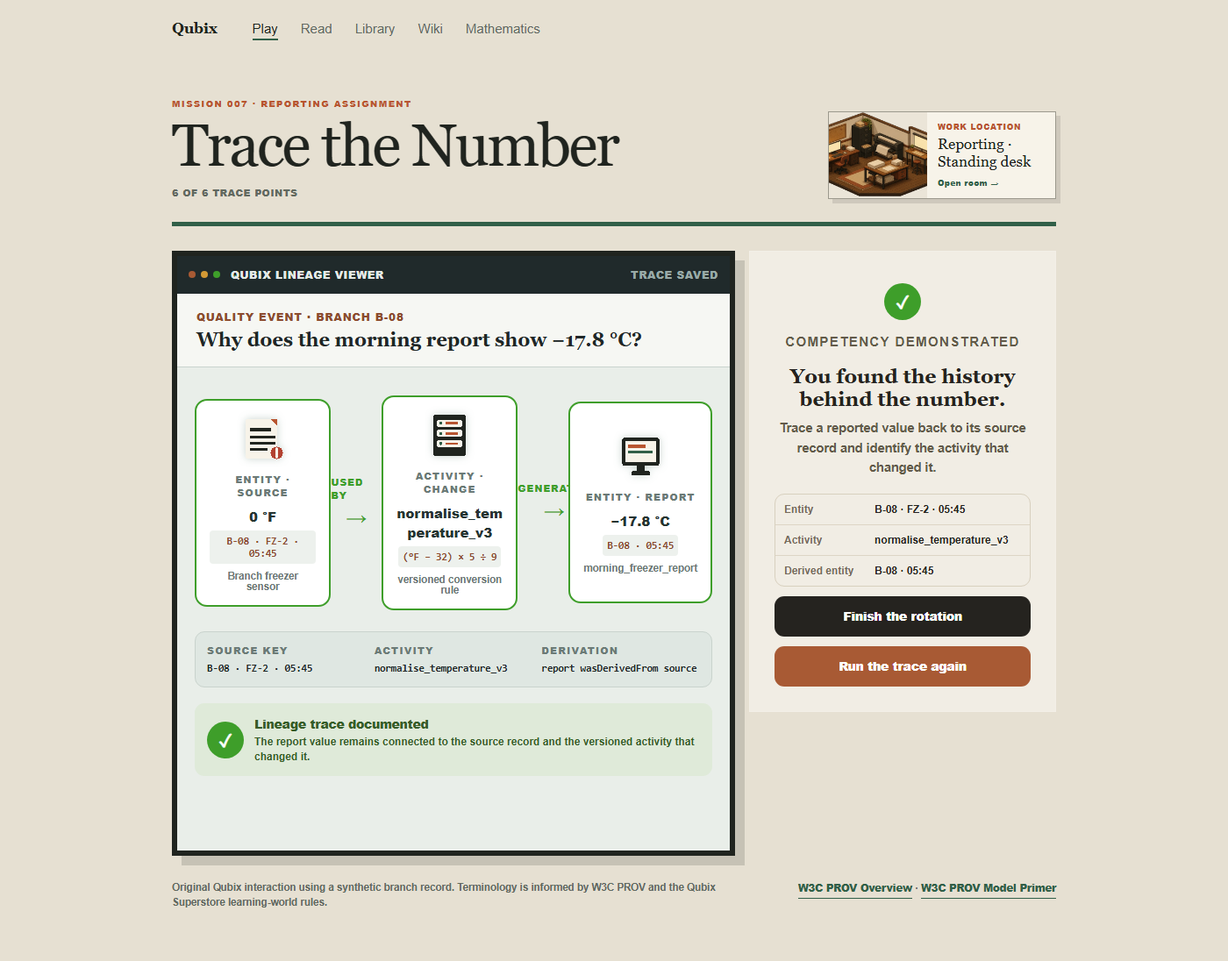
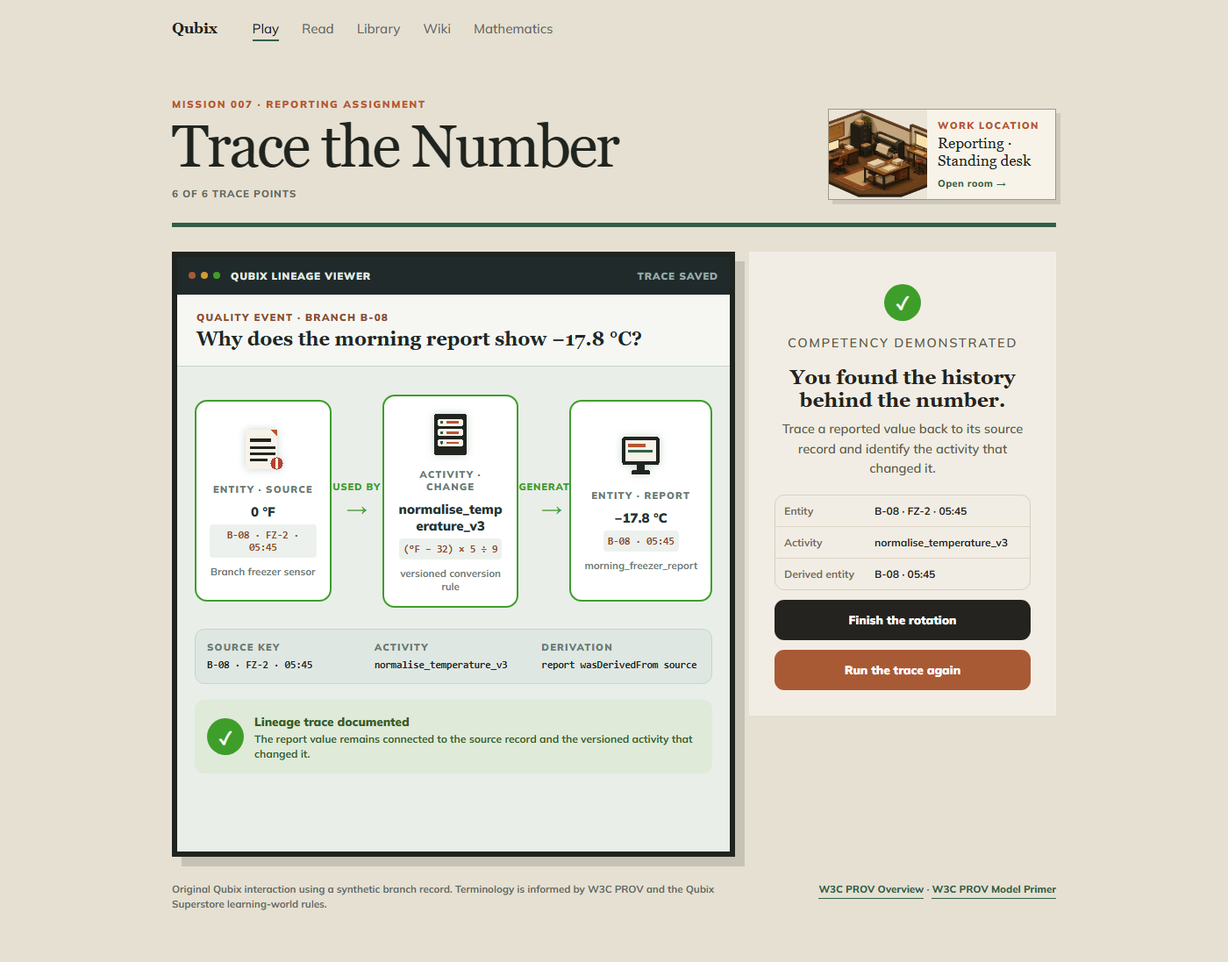
Raise every learner-facing type size to a readable floor
A sweep of every route at desktop and phone width found the site clean
on the things that usually break: no javascript errors, no missing
files, no broken images, no blank pages, no sideways scrolling anywhere.
One fault ran through almost all of it. Ninety-two routes carried text
below 11px.

The home page had been retuned by hand and nothing else had. An 8.5px
"WORK LOCATION" sat on every mission masthead, case counters were 10px,
the play hub alone had eighty-two instances, and three of the newer
missions carried 7.5px licence badges.

Forty-six declarations lifted across ten files. Only sizes already below
11px moved, so nothing that was working got rescaled. Authoring surfaces
are left alone: their density is deliberate and no learner opens them.

check-type reads the source rather than a rendered page, so it runs in
the build with everything else, and refuses any learner-facing font
declaration under 11px. It checks 888 of them.

Two scripts kept: sweep-routes walks every route and reports what is
actually broken, which is how this was found, and floor-type applies the
lift. The first version of floor-type listed the sizes it knew about and
missed the 7.5px badges entirely; it reads the number now.

diff --git a/src/views/GameHub.svelte b/src/views/GameHub.svelte
@@ -134,13 +134,13 @@
   .standing{padding:24px;border-top:3px solid var(--accent);background:var(--paper)}.rank-line{display:flex;justify-content:space-between;align-items:baseline;gap:14px}.rank-line strong{font:500 23px Georgia,serif}.rank-line span{font:500 34px Georgia,serif}.bar{height:5px;margin-top:22px;background:#cec8ba;overflow:hidden}.bar span{display:block;height:100%;background:var(--accent);transition:width .4s ease}.meter-row{display:flex;justify-content:space-between;gap:12px;margin-top:8px;color:var(--soft);font:700 11px var(--qx-font)}.standing small{display:block;margin-top:12px;color:var(--soft);font:600 11px var(--qx-font)}
   .locked-notice{margin-bottom:20px;color:#7a3524;font:700 14px/1.5 var(--qx-font)}
   .next-card{display:grid;grid-template-columns:64px minmax(0,1fr) auto;gap:28px;align-items:center;width:calc(100% - clamp(32px,10vw,112px));max-width:1008px!important;box-sizing:border-box;margin-bottom:72px!important;padding:30px!important;border:6px solid var(--ink);background:var(--paper);box-shadow:12px 12px 0 rgba(32,36,31,.16)}.mission-number{color:var(--signal);font:500 28px Georgia,serif}.next-copy h2{margin:0;font:500 31px Georgia,serif}.next-copy>p:not(.eyebrow){margin:7px 0;color:var(--soft);font:500 14px/1.5 var(--qx-font)}
-  .pairing{display:flex;margin-top:20px}.pairing span{max-width:230px;padding:0 22px;border-left:1px solid var(--rule);color:var(--soft);font:500 11px/1.45 var(--qx-font)}.pairing span:first-child{padding-left:0;border:0}.pairing b{display:block;margin-bottom:6px;color:var(--signal);font:900 9px var(--qx-font);letter-spacing:.12em}.next-actions{display:grid;gap:11px;text-align:center}.next-actions a{color:var(--ink);font:800 12px var(--qx-font);text-decoration:none}.next-actions .primary{padding:16px 20px;background:var(--signal);color:#fff}.next-actions a:focus-visible{outline:3px solid var(--accent);outline-offset:3px}
-  .floor,.route{padding-bottom:76px}.section-heading{display:flex;justify-content:space-between;align-items:end;gap:24px;margin-bottom:28px}.section-heading h2,.ranks h2{max-width:720px;margin:0;font:500 clamp(30px,4vw,47px)/1.08 Georgia,serif;letter-spacing:-.02em}.section-heading>span{color:var(--soft);font:800 10px/1.5 var(--qx-font);letter-spacing:.08em;text-align:right}
+  .pairing{display:flex;margin-top:20px}.pairing span{max-width:230px;padding:0 22px;border-left:1px solid var(--rule);color:var(--soft);font:500 11px/1.45 var(--qx-font)}.pairing span:first-child{padding-left:0;border:0}.pairing b{display:block;margin-bottom:6px;color:var(--signal);font:900 11px var(--qx-font);letter-spacing:.12em}.next-actions{display:grid;gap:11px;text-align:center}.next-actions a{color:var(--ink);font:800 12px var(--qx-font);text-decoration:none}.next-actions .primary{padding:16px 20px;background:var(--signal);color:#fff}.next-actions a:focus-visible{outline:3px solid var(--accent);outline-offset:3px}
+  .floor,.route{padding-bottom:76px}.section-heading{display:flex;justify-content:space-between;align-items:end;gap:24px;margin-bottom:28px}.section-heading h2,.ranks h2{max-width:720px;margin:0;font:500 clamp(30px,4vw,47px)/1.08 Georgia,serif;letter-spacing:-.02em}.section-heading>span{color:var(--soft);font:800 11.5px/1.5 var(--qx-font);letter-spacing:.08em;text-align:right}
   .floor-map{position:relative;display:grid;grid-template-columns:1fr 1.15fr 1.35fr;grid-template-areas:'goods stock office' 'checkout aisles office' 'checkout aisles board';gap:16px;padding:24px;border:6px solid var(--ink);background:#d7dbcf;box-shadow:12px 12px 0 rgba(32,36,31,.16)}
   .room{position:relative;min-height:170px;display:flex;flex-direction:column;padding:18px;border:1px solid #9c998d;background:#e8e2d5;color:var(--ink);text-decoration:none;overflow:hidden;isolation:isolate}.goods-in{grid-area:goods}.stock-room{grid-area:stock}.data-office{grid-area:office}.checkout{grid-area:checkout}.aisles{grid-area:aisles}.board-room{grid-area:board}.room::before{content:'';position:absolute;inset:0;z-index:-2;background:linear-gradient(145deg,rgba(49,95,72,.08),transparent 58%),repeating-linear-gradient(90deg,transparent 0 36px,rgba(32,36,31,.025) 36px 37px)}.room::after{content:'';position:absolute;inset:0;z-index:-1;background:linear-gradient(to top,rgba(232,226,213,.98),rgba(232,226,213,.12) 72%)}.room:hover{border-color:var(--signal)}.room:focus-visible{outline:4px solid var(--signal);outline-offset:-4px}.room.current{border:3px solid var(--signal)}.room.complete{border-color:var(--accent)}
-  .room-top{display:flex;justify-content:space-between;gap:12px;text-transform:uppercase}.room-top b{font:800 12px var(--qx-font);letter-spacing:.13em}.room-top em{color:var(--accent);font:800 10px var(--qx-font);font-style:normal}.image-slot{margin:auto;color:#857f72;font:800 9px var(--qx-font);letter-spacing:.13em}.room small{color:var(--soft);font:600 10px/1.35 var(--qx-font)}.room-state{margin-top:8px;color:var(--signal);font:900 9px var(--qx-font);letter-spacing:.09em;text-transform:uppercase}.you-are-here{position:absolute;left:18%;top:56%;padding:10px 13px;background:var(--signal);color:#fff;font:900 9px var(--qx-font);letter-spacing:.08em}.image-note{margin:18px 0 0;color:var(--soft);font:500 12px/1.5 var(--qx-font)}
-  ol.missions{margin:0;padding:0;border-top:3px solid var(--accent);list-style:none}.missions li{display:grid;grid-template-columns:42px minmax(0,1fr) auto auto;align-items:center;gap:18px;padding:19px 20px;border-bottom:1px solid var(--rule);background:rgba(247,243,233,.65)}.missions li:first-child{border-left:4px solid var(--signal)}.missions li.done{background:rgba(49,95,72,.07)}.missions li.locked{opacity:.55}.num{color:var(--accent);font:500 14px Georgia,serif}.body b{display:block;font:500 17px Georgia,serif}.body span{display:block;margin-top:3px;color:var(--soft);font:500 12px/1.4 var(--qx-font)}.xp{color:var(--soft);font:800 10px var(--qx-font)}.actions{display:flex;align-items:center;gap:8px}.actions a,.lock{min-width:58px;padding:9px 10px;color:var(--ink);font:900 9px var(--qx-font);letter-spacing:.08em;text-align:center;text-decoration:none;text-transform:uppercase}.actions .play{background:var(--signal);color:#fff}.actions .read{color:var(--accent)}.lock{color:var(--soft)}.actions a:focus-visible{outline:3px solid var(--accent);outline-offset:2px}
-  .ranks{padding-bottom:62px}.ranks ul{display:grid;grid-template-columns:repeat(auto-fit,minmax(220px,1fr));gap:0;margin:26px 0 0;padding:0;border-top:1px solid var(--rule);border-left:1px solid var(--rule);list-style:none}.ranks li{display:flex;justify-content:space-between;gap:10px;padding:15px;border-right:1px solid var(--rule);border-bottom:1px solid var(--rule);opacity:.48}.ranks li.reached{background:var(--paper);opacity:1}.ranks b{font:600 12px var(--qx-font)}.ranks span{color:var(--soft);font:700 10px var(--qx-font)}
+  .room-top{display:flex;justify-content:space-between;gap:12px;text-transform:uppercase}.room-top b{font:800 12px var(--qx-font);letter-spacing:.13em}.room-top em{color:var(--accent);font:800 11.5px var(--qx-font);font-style:normal}.image-slot{margin:auto;color:#857f72;font:800 11px var(--qx-font);letter-spacing:.13em}.room small{color:var(--soft);font:600 11.5px/1.35 var(--qx-font)}.room-state{margin-top:8px;color:var(--signal);font:900 11px var(--qx-font);letter-spacing:.09em;text-transform:uppercase}.you-are-here{position:absolute;left:18%;top:56%;padding:10px 13px;background:var(--signal);color:#fff;font:900 11px var(--qx-font);letter-spacing:.08em}.image-note{margin:18px 0 0;color:var(--soft);font:500 12px/1.5 var(--qx-font)}
+  ol.missions{margin:0;padding:0;border-top:3px solid var(--accent);list-style:none}.missions li{display:grid;grid-template-columns:42px minmax(0,1fr) auto auto;align-items:center;gap:18px;padding:19px 20px;border-bottom:1px solid var(--rule);background:rgba(247,243,233,.65)}.missions li:first-child{border-left:4px solid var(--signal)}.missions li.done{background:rgba(49,95,72,.07)}.missions li.locked{opacity:.55}.num{color:var(--accent);font:500 14px Georgia,serif}.body b{display:block;font:500 17px Georgia,serif}.body span{display:block;margin-top:3px;color:var(--soft);font:500 12px/1.4 var(--qx-font)}.xp{color:var(--soft);font:800 11.5px var(--qx-font)}.actions{display:flex;align-items:center;gap:8px}.actions a,.lock{min-width:58px;padding:9px 10px;color:var(--ink);font:900 11px var(--qx-font);letter-spacing:.08em;text-align:center;text-decoration:none;text-transform:uppercase}.actions .play{background:var(--signal);color:#fff}.actions .read{color:var(--accent)}.lock{color:var(--soft)}.actions a:focus-visible{outline:3px solid var(--accent);outline-offset:2px}
+  .ranks{padding-bottom:62px}.ranks ul{display:grid;grid-template-columns:repeat(auto-fit,minmax(220px,1fr));gap:0;margin:26px 0 0;padding:0;border-top:1px solid var(--rule);border-left:1px solid var(--rule);list-style:none}.ranks li{display:flex;justify-content:space-between;gap:10px;padding:15px;border-right:1px solid var(--rule);border-bottom:1px solid var(--rule);opacity:.48}.ranks li.reached{background:var(--paper);opacity:1}.ranks b{font:600 12px var(--qx-font)}.ranks span{color:var(--soft);font:700 11.5px var(--qx-font)}
   .progress-foot{display:flex;justify-content:space-between;align-items:center;gap:16px;flex-wrap:wrap;padding-top:18px;border-top:1px solid var(--rule)}.progress-foot p{margin:0;color:var(--soft);font:500 12px/1.5 var(--qx-font)}.confirm{display:flex;align-items:center;gap:9px;color:#7a3524;font:700 12px var(--qx-font);flex-wrap:wrap}button{min-height:34px;padding:0 14px;border:0;background:#9b382c;color:#fff;cursor:pointer;font:900 11px var(--qx-font)}button.ghost{border:1px solid var(--rule);background:transparent;color:var(--soft)}button:disabled{opacity:.4;cursor:default}button:focus-visible{outline:3px solid var(--accent);outline-offset:2px}.sr-only{position:absolute;width:1px;height:1px;padding:0;margin:-1px;overflow:hidden;clip:rect(0,0,0,0);white-space:nowrap;border:0}
   @media(max-width:780px){.hero{grid-template-columns:1fr;padding-top:40px}.next-card{grid-template-columns:42px minmax(0,1fr)}.next-actions{grid-column:2;justify-items:start}.floor-map{grid-template-columns:1fr 1fr;grid-template-areas:'checkout aisles' 'goods stock' 'office office' 'board board';padding:14px}.room{min-height:145px}.data-office,.board-room{min-height:160px}.you-are-here{left:42%;top:23%}.missions li{grid-template-columns:34px minmax(0,1fr);gap:10px}.xp,.actions{grid-column:2}.actions{justify-self:start}.section-heading{align-items:flex-start;flex-direction:column}.section-heading>span{text-align:left}}
   @media(max-width:460px){.hero h1{font-size:43px}.next-card{margin-inline:16px!important;padding:21px!important;border-width:5px;box-shadow:8px 8px 0 rgba(32,36,31,.16)}.next-card .mission-number{display:none}.next-card,.next-actions{grid-template-columns:1fr;grid-column:1}.pairing{display:grid;gap:12px}.pairing span{padding:0;border:0}.floor-map{grid-template-columns:1fr;grid-template-areas:'checkout' 'aisles' 'goods' 'stock' 'office' 'board';box-shadow:8px 8px 0 rgba(32,36,31,.16)}.you-are-here{top:19%;left:auto;right:4px}.room{min-height:160px}}

diff --git a/src/lib/components/game/EvidenceWorkflowMission.svelte b/src/lib/components/game/EvidenceWorkflowMission.svelte
@@ -146,20 +146,20 @@
   main{display:grid;grid-template-columns:minmax(0,1.14fr) minmax(330px,.86fr);gap:24px;align-items:start}
   .case-file,.decision-card{background:#f7f3e9;color:#20241f}.case-file{min-height:520px;overflow:hidden}.decision-card{padding:24px;border:1px solid #9c998d;box-shadow:5px 5px 0 rgba(32,36,31,.12)}
   .file-head{padding:22px 24px 18px;display:flex;justify-content:space-between;align-items:start;gap:18px;border-bottom:2px solid #20241f}
-  .eyebrow{margin:0 0 6px;color:#b85530;font:900 9px var(--qx-font);letter-spacing:.14em}.file-head h2,.question h2,.completion h2{margin:0;font:400 27px/1.08 Georgia,serif;text-wrap:balance}
-  .file-head>span{display:grid;place-items:center;min-width:50px;height:34px;background:#20241f;color:#fff;font:900 10px var(--qx-font)}
+  .eyebrow{margin:0 0 6px;color:#b85530;font:900 11px var(--qx-font);letter-spacing:.14em}.file-head h2,.question h2,.completion h2{margin:0;font:400 27px/1.08 Georgia,serif;text-wrap:balance}
+  .file-head>span{display:grid;place-items:center;min-width:50px;height:34px;background:#20241f;color:#fff;font:900 11.5px var(--qx-font)}
   .brief{margin:0;padding:20px 24px;color:#51584f;font:650 14px/1.6 var(--qx-font)}
-  .evidence-table{margin:0 24px;border:2px solid #20241f}.evidence-table>div{display:grid;grid-template-columns:minmax(125px,34%) 1fr;border-bottom:1px solid #9c998d}.evidence-table>div:last-child{border-bottom:0}.evidence-table b,.evidence-table span{padding:12px 13px}.evidence-table b{background:#e1dacd;font:900 10px/1.4 var(--qx-font);letter-spacing:.04em}.evidence-table span{font:700 12.5px/1.45 ui-monospace,"SF Mono",Consolas,monospace;overflow-wrap:anywhere}
-  .case-rule{margin:22px 24px 26px;padding:14px 16px;display:grid;gap:5px;border-left:5px solid #315f48;background:#e3e9df}.case-rule b{color:#315f48;font:900 9px var(--qx-font);letter-spacing:.12em}.case-rule span{font:650 12.5px/1.5 var(--qx-font)}
-  .decision-card nav{display:flex;gap:1px;margin-bottom:22px;background:#c8c1b1}.decision-card nav span{flex:1;min-width:0;padding:8px 7px;display:flex;align-items:center;gap:6px;background:#e7e1d5;color:#6f756b;font:850 9px var(--qx-font);letter-spacing:.04em}.decision-card nav span b{display:grid;place-items:center;width:20px;height:20px;background:#c8c1b1;color:#20241f}.decision-card nav span.past{background:#dce5d7;color:#315f48}.decision-card nav span.on{background:#20241f;color:#fff}.decision-card nav span.on b{background:#b85530;color:#fff}
+  .evidence-table{margin:0 24px;border:2px solid #20241f}.evidence-table>div{display:grid;grid-template-columns:minmax(125px,34%) 1fr;border-bottom:1px solid #9c998d}.evidence-table>div:last-child{border-bottom:0}.evidence-table b,.evidence-table span{padding:12px 13px}.evidence-table b{background:#e1dacd;font:900 11.5px/1.4 var(--qx-font);letter-spacing:.04em}.evidence-table span{font:700 12.5px/1.45 ui-monospace,"SF Mono",Consolas,monospace;overflow-wrap:anywhere}
+  .case-rule{margin:22px 24px 26px;padding:14px 16px;display:grid;gap:5px;border-left:5px solid #315f48;background:#e3e9df}.case-rule b{color:#315f48;font:900 11px var(--qx-font);letter-spacing:.12em}.case-rule span{font:650 12.5px/1.5 var(--qx-font)}
+  .decision-card nav{display:flex;gap:1px;margin-bottom:22px;background:#c8c1b1}.decision-card nav span{flex:1;min-width:0;padding:8px 7px;display:flex;align-items:center;gap:6px;background:#e7e1d5;color:#6f756b;font:850 11px var(--qx-font);letter-spacing:.04em}.decision-card nav span b{display:grid;place-items:center;width:20px;height:20px;background:#c8c1b1;color:#20241f}.decision-card nav span.past{background:#dce5d7;color:#315f48}.decision-card nav span.on{background:#20241f;color:#fff}.decision-card nav span.on b{background:#b85530;color:#fff}
   .question{padding-bottom:18px;border-bottom:2px solid #20241f}.question h2{font-size:24px}
   .options{display:grid;gap:9px;margin-top:18px}.options button{padding:13px 14px;display:grid;gap:4px;border:1px solid #9c998d;background:#fff;color:#20241f;text-align:left;cursor:pointer}.options button:hover,.options button.selected{border:2px solid #315f48}.options button.right{border:2px solid #315f48;background:#e3e9df}.options button.wrong{border:2px solid #b85530;background:#f4e0d7}.options button:disabled{cursor:default}.options button b{font:850 13px/1.35 var(--qx-font)}.options button span{color:#686d64;font:650 11.5px/1.45 var(--qx-font)}
   .feedback{margin-top:12px;padding:12px 14px;display:grid;gap:4px;border-left:5px solid #b85530;background:#f4e0d7;color:#813d2b;font:650 12px/1.5 var(--qx-font)}.feedback.success{border-color:#315f48;background:#e3e9df;color:#315f48}.feedback b{font-weight:900}
   .continue,.completion>a,.completion>button{width:100%;min-height:45px;margin-top:12px;border:0;background:#315f48;color:#fff;font:900 11px var(--qx-font);letter-spacing:.06em;text-transform:uppercase;cursor:pointer}.continue{text-align:center}.completion>a{display:grid;place-items:center;box-sizing:border-box;background:#20241f;text-decoration:none}.completion>button{background:transparent;color:#315f48;border:1px solid #315f48}
   .completion{padding:42px clamp(22px,5vw,52px);text-align:center}.stamp{display:inline-block;margin-bottom:22px;padding:10px 14px;border:4px double #315f48;color:#315f48;font:900 12px var(--qx-font);letter-spacing:.14em;transform:rotate(-2deg)}.completion>p:not(.eyebrow){max-width:54ch;margin:12px auto;color:#555b53;font:650 13.5px/1.55 var(--qx-font)}.completion ol{margin:24px 0 0;padding:0;list-style:none;border:2px solid #20241f;text-align:left}.completion li{padding:12px 14px;display:grid;grid-template-columns:1fr 1fr;gap:12px;border-bottom:1px solid #9c998d}.completion li:last-child{border-bottom:0}.completion li span{font:800 12px var(--qx-font)}.completion li b{color:#315f48;font:800 11px/1.4 var(--qx-font)}
-  footer{display:flex;justify-content:space-between;gap:16px;flex-wrap:wrap;font:650 10.5px/1.5 var(--qx-font)}.source-links{display:flex;align-items:center;gap:5px;flex-wrap:wrap}.source-links a{display:inline-flex;align-items:center;gap:5px}.source-links small{padding:2px 4px;border:1px solid currentColor;font:850 7.5px var(--qx-font);text-decoration:none}
+  footer{display:flex;justify-content:space-between;gap:16px;flex-wrap:wrap;font:650 11.5px/1.5 var(--qx-font)}.source-links{display:flex;align-items:center;gap:5px;flex-wrap:wrap}.source-links a{display:inline-flex;align-items:center;gap:5px}.source-links small{padding:2px 4px;border:1px solid currentColor;font:850 11px var(--qx-font);text-decoration:none}
   button:focus-visible,a:focus-visible{outline:3px solid #b85530;outline-offset:3px}
   @media(max-width:900px){main{grid-template-columns:1fr}.case-file{min-height:0}}
-  @media(max-width:560px){.decision-card{padding:17px}.file-head,.brief{padding-left:17px;padding-right:17px}.evidence-table,.case-rule{margin-left:17px;margin-right:17px}.evidence-table>div{grid-template-columns:1fr}.evidence-table b{padding-bottom:5px}.evidence-table span{padding-top:5px}.completion li{grid-template-columns:1fr}.decision-card nav span{justify-content:center}.decision-card nav span:not(.on) {font-size:0}.decision-card nav span b{font-size:9px}}
+  @media(max-width:560px){.decision-card{padding:17px}.file-head,.brief{padding-left:17px;padding-right:17px}.evidence-table,.case-rule{margin-left:17px;margin-right:17px}.evidence-table>div{grid-template-columns:1fr}.evidence-table b{padding-bottom:5px}.evidence-table span{padding-top:5px}.completion li{grid-template-columns:1fr}.decision-card nav span{justify-content:center}.decision-card nav span:not(.on) {font-size:0}.decision-card nav span b{font-size:11px}}
 </style>
 

diff --git a/src/views/MissingDataMission.svelte b/src/views/MissingDataMission.svelte
@@ -274,12 +274,12 @@
   .intro-copy{padding:clamp(28px,4vw,52px);display:flex;flex-direction:column;justify-content:center;border-left:1px solid #d4cbb9;background:#fbf8f1}
   .intro-copy h3{margin:4px 0 12px;font:700 clamp(27px,3vw,38px)/1.08 Georgia,serif;letter-spacing:-.02em}.intro-copy>p:not(.eyebrow){margin:0;color:#625a49;font:650 15px/1.65 var(--qx-font)}
   .intro-copy button{min-height:48px;margin-top:24px;border:0;border-radius:11px;background:#a85a34;color:#fff;font:900 14px var(--qx-font);cursor:pointer}.intro-copy button:hover{background:#25231f}
-  .mobile-monitor{min-height:280px;margin:18px;padding:24px;display:grid;place-items:center;align-content:center;gap:12px;border:10px solid #25231f;border-bottom-width:30px;border-radius:14px;background:#bfe8d6;color:#20382e;cursor:pointer}.mobile-monitor .screen-icon{font:900 42px/1 var(--qx-font);letter-spacing:.04em}.mobile-monitor .screen-icon small{font-size:10px}.mobile-monitor>b{font:900 17px var(--qx-font)}.mobile-monitor>small{font:700 13px var(--qx-font)}
+  .mobile-monitor{min-height:280px;margin:18px;padding:24px;display:grid;place-items:center;align-content:center;gap:12px;border:10px solid #25231f;border-bottom-width:30px;border-radius:14px;background:#bfe8d6;color:#20382e;cursor:pointer}.mobile-monitor .screen-icon{font:900 42px/1 var(--qx-font);letter-spacing:.04em}.mobile-monitor .screen-icon small{font-size:11.5px}.mobile-monitor>b{font:900 17px var(--qx-font)}.mobile-monitor>small{font:700 13px var(--qx-font)}
   .workstation-screen{margin:0 14px 14px;padding:12px;border:8px solid #25231f;border-radius:12px;background:#201c17;box-shadow:inset 0 0 0 1px #47665a,0 18px 50px rgba(0,0,0,.25);color:#e9f0e9}
   .screen-bar{min-height:42px;padding:0 12px;display:grid;grid-template-columns:1fr auto 1fr;align-items:center;gap:12px;border-bottom:1px solid #47665a;color:#a9bdb3;font:850 11px var(--qx-font);letter-spacing:.08em}.screen-bar>div{display:flex;gap:6px}.screen-bar i{width:8px;height:8px;border-radius:50%;background:#a85a34}.screen-bar i:nth-child(2){background:#e2a42d}.screen-bar i:nth-child(3){background:#63b13b}.screen-bar b{color:#e9f0e9}.screen-bar>span{text-align:right}
   .screen-layout{display:grid;grid-template-columns:minmax(330px,.84fr) minmax(0,1.16fr);gap:1px;background:#47665a}
   .case-pane,.workstation-screen .decision-card{min-width:0;border:0;border-radius:0;background:#edf1ed;color:#25231f}
-  .case-pane{padding:clamp(18px,2.6vw,30px)}.pane-label{margin:0 0 10px;color:#55756f;font:900 11px var(--qx-font);letter-spacing:.12em}.data-table-wrap.record-strip{display:block;max-width:100%;overflow-x:auto;border:1px solid #c7d1ca;border-radius:11px;background:#fff}.data-table-wrap table{width:100%;border-collapse:collapse;font:750 12px var(--qx-font);white-space:nowrap}.data-table-wrap caption{padding:10px 12px;border-bottom:1px solid #d5ddd7;background:#f7f9f6;color:#375a4e;font:900 11px var(--qx-font);letter-spacing:.06em;text-align:left}.data-table-wrap th,.data-table-wrap td{padding:11px 12px;border-right:1px solid #d5ddd7;text-align:left}.data-table-wrap th:last-child,.data-table-wrap td:last-child{border-right:0}.data-table-wrap th{color:#61706a;font-size:10.5px;letter-spacing:.04em}.data-table-wrap td{border-top:1px solid #d5ddd7;color:#25231f}.data-table-wrap .flagged{background:#f8e4df;color:#a02d1d;font-weight:900}.case-pane .evidence{margin:16px 0 0;background:#dfe7e2;border-color:#c1cec5}.case-pane .evidence small{display:block;margin-bottom:7px;color:#55756f;font:900 10.5px var(--qx-font);letter-spacing:.1em}
+  .case-pane{padding:clamp(18px,2.6vw,30px)}.pane-label{margin:0 0 10px;color:#55756f;font:900 11px var(--qx-font);letter-spacing:.12em}.data-table-wrap.record-strip{display:block;max-width:100%;overflow-x:auto;border:1px solid #c7d1ca;border-radius:11px;background:#fff}.data-table-wrap table{width:100%;border-collapse:collapse;font:750 12px var(--qx-font);white-space:nowrap}.data-table-wrap caption{padding:10px 12px;border-bottom:1px solid #d5ddd7;background:#f7f9f6;color:#375a4e;font:900 11px var(--qx-font);letter-spacing:.06em;text-align:left}.data-table-wrap th,.data-table-wrap td{padding:11px 12px;border-right:1px solid #d5ddd7;text-align:left}.data-table-wrap th:last-child,.data-table-wrap td:last-child{border-right:0}.data-table-wrap th{color:#61706a;font-size:11.5px;letter-spacing:.04em}.data-table-wrap td{border-top:1px solid #d5ddd7;color:#25231f}.data-table-wrap .flagged{background:#f8e4df;color:#a02d1d;font-weight:900}.case-pane .evidence{margin:16px 0 0;background:#dfe7e2;border-color:#c1cec5}.case-pane .evidence small{display:block;margin-bottom:7px;color:#55756f;font:900 11.5px var(--qx-font);letter-spacing:.1em}
   .workstation-screen .decision-card{padding:clamp(18px,2.6vw,30px);overflow:visible}.workstation-screen .theory{border-color:#c7d1ca}.workstation-screen .options{grid-template-columns:repeat(2,minmax(0,1fr))}.workstation-screen .options button{min-height:54px}.workstation-screen .options button:last-child:nth-child(odd){grid-column:1/-1}.completion-panel{max-width:760px;margin:0 auto}.completion-panel .completion{padding:18px}
   @media(max-width:940px){main{grid-template-columns:1fr}.mission-intro,.screen-layout{grid-template-columns:1fr}.intro-copy{border-top:1px solid #d4cbb9;border-left:0}.viewport{min-height:500px}.decision-card{min-height:0}footer{flex-direction:column}}
   @media(max-width:600px){.mission-shell{padding:13px 10px 25px}header{align-items:flex-start}.identity h1{font-size:20px}.role{width:42px;height:42px}nav{flex-direction:column;align-items:flex-end;gap:6px}.viewport{min-height:360px}.intro-copy{padding:24px 18px}.mobile-monitor{margin:10px}.workstation-screen{margin:0 6px 8px;padding:5px;border-width:5px}.screen-bar{grid-template-columns:1fr auto;padding:8px}.screen-bar>b{display:none}.screen-layout{display:block}.record-strip{grid-template-columns:1fr}.record-strip div{border-right:0;border-bottom:1px solid #d8d0be}.record-strip div:last-child{border-bottom:0}.decision-card{padding:16px}.workstation-screen .options{grid-template-columns:1fr}.workstation-screen .options button:last-child:nth-child(odd){grid-column:auto}}

diff --git a/src/views/CheckoutMission.svelte b/src/views/CheckoutMission.svelte
@@ -328,14 +328,14 @@
   .nav-wrap,.mission-hero,main{width:min(100%,1120px);margin-inline:auto;padding-inline:clamp(16px,5vw,56px)}
   .mission-hero{display:flex;align-items:end;justify-content:space-between;gap:28px;margin-bottom:30px;padding-top:48px}
   .mission-hero h1{margin:0;color:#20241f;font:400 clamp(42px,7vw,70px)/.98 Georgia,serif;letter-spacing:-.035em}
-  .mission-meta{min-width:190px;color:#62695f;font:800 10px var(--qx-font);letter-spacing:.08em;text-align:right}
+  .mission-meta{min-width:190px;color:#62695f;font:800 11.5px var(--qx-font);letter-spacing:.08em;text-align:right}
   .progress{width:100%;max-width:none;height:5px;margin:10px 0 0;border-radius:0;background:#c8c1b1}
   .progress span{background:#315f48}
   main{display:grid;grid-template-columns:minmax(0,1.25fr) minmax(250px,.75fr);gap:24px;align-items:start;box-sizing:border-box}
   .stage-card{border:6px solid #20241f;border-radius:0;background:#f7f3e9;box-shadow:11px 11px 0 rgba(32,36,31,.16)}
   .brief{min-height:94px;padding:19px 23px;border-bottom:1px solid #c8c1b1}
   .brief h2,.card-title h2,.classify-card h2{font-weight:400}.brief>strong{color:#b85530}
-  .eyebrow{color:#b85530;font-size:10px;letter-spacing:.13em}
+  .eyebrow{color:#b85530;font-size:11.5px;letter-spacing:.13em}
   .viewport{min-height:clamp(360px,52vh,570px);border-color:#c8c1b1;background:#e8e2d5}
   .checkout-controls{padding:18px 22px}.quantity span{color:#62695f}.quantity button,button,select{border-radius:0;border-color:#c8c1b1;background:#f7f3e9}
   .scan{background:#b85530;border-color:#b85530}.feedback{border-color:#c8c1b1;background:#f0ebdf;color:#62695f}
@@ -344,7 +344,7 @@
   .decision-card h2{margin:0 0 9px;font:400 25px/1.1 Georgia,serif}.decision-card>p:last-of-type{margin:0;color:#62695f;font:600 12px/1.55 var(--qx-font)}
   .decision-card a{display:inline-block;margin-top:15px;color:#315f48;font:800 11px var(--qx-font);text-decoration:none;border-bottom:1px solid currentColor;padding-bottom:2px}
   .basket-card{background:#20241f;color:#f7f3e9}.basket-card .eyebrow{color:#e9a07d}.basket-card .card-title h2{color:#f7f3e9}.basket-card .muted{color:#c8c1b1}.card-title>strong{color:#f7f3e9;font-weight:400}.basket-card li{border-color:#596157}
-  .lineage{grid-template-columns:repeat(3,1fr);gap:1px;margin:10px -19px -19px;background:#c8c1b1}.lineage>div{display:block;padding:15px;border:0;border-radius:0;background:#f7f3e9;opacity:.62}.lineage>div.active{border:0;background:#e4e9df;opacity:1}.lineage span{display:block;width:auto;height:auto;border-radius:0;background:transparent;color:#315f48;text-align:left;font-size:10px}.lineage p{margin-top:9px;font-size:11px}.lineage b{font-size:10px;color:#315f48}.data-card dl{margin-top:19px}.classify-card{border:5px solid #20241f;box-shadow:8px 8px 0 rgba(32,36,31,.14)}
+  .lineage{grid-template-columns:repeat(3,1fr);gap:1px;margin:10px -19px -19px;background:#c8c1b1}.lineage>div{display:block;padding:15px;border:0;border-radius:0;background:#f7f3e9;opacity:.62}.lineage>div.active{border:0;background:#e4e9df;opacity:1}.lineage span{display:block;width:auto;height:auto;border-radius:0;background:transparent;color:#315f48;text-align:left;font-size:11.5px}.lineage p{margin-top:9px;font-size:11px}.lineage b{font-size:11.5px;color:#315f48}.data-card dl{margin-top:19px}.classify-card{border:5px solid #20241f;box-shadow:8px 8px 0 rgba(32,36,31,.14)}
   .check,.next-mission{border-radius:0;background:#20241f}.complete{border-radius:0}
   @media(max-width:920px){main{grid-template-columns:1fr}.mission-hero{padding-top:38px}aside{display:grid;grid-template-columns:1fr 1fr}.decision-card,.classify-card{grid-column:1/-1}.viewport{min-height:450px}}
   @media(max-width:600px){.game-shell{padding:0 0 38px}.nav-wrap,.mission-hero,main{padding-inline:16px}.mission-hero{display:block;margin-bottom:24px}.mission-hero h1{font-size:46px}.mission-meta{margin-top:14px;text-align:left}.stage-card{border-width:5px;box-shadow:8px 8px 0 rgba(32,36,31,.16)}.brief{align-items:flex-start;flex-direction:column}.checkout-controls{padding:17px}.viewport{min-height:0}.feedback{font-size:13px}aside{display:flex}.lineage{grid-template-columns:1fr}.classify-card{box-shadow:6px 6px 0 rgba(32,36,31,.14)}}

diff --git a/src/views/SharedFoundationsBook.svelte b/src/views/SharedFoundationsBook.svelte
@@ -416,7 +416,7 @@
   .sources { margin-top: 25px; padding: 15px 0; display: flex; align-items:center; flex-wrap: wrap; gap: 8px 14px; border-top: 1px solid #ded7c8; border-bottom: 1px solid #ded7c8; }
   .sources b { color: #756c5c; font: 850 11.5px var(--qx-font); }
   .sources a { display:inline-flex;align-items:center;gap:5px;color: #8c4c2e; font: 750 11.5px var(--qx-font); }
-  .sources a small { padding:3px 5px;border:1px solid #9c998d;color:#4f6151;font:850 8px var(--qx-font);letter-spacing:.04em;text-decoration:none; }
+  .sources a small { padding:3px 5px;border:1px solid #9c998d;color:#4f6151;font:850 11px var(--qx-font);letter-spacing:.04em;text-decoration:none; }
   .chapter-nav { padding: 24px 0 38px; display: flex; justify-content: space-between; gap: 12px; }
   .chapter-nav button, .chapter-nav a { min-height: 42px; padding: 11px 16px; border: 1px solid #d8d0be; border-radius: 8px; background: #fff; color: #241f16; font: 850 12px var(--qx-font); text-decoration: none; cursor: pointer; }
   .chapter-nav .next { border-color: #5f7355; background: #5f7355; color: #fff; }
@@ -491,7 +491,7 @@
   .toc nav button.active > span { background: transparent; color: var(--packet-orange); }
   .toc nav button div { grid-column: 1 / -1; display: flex; flex-direction: column-reverse; gap: 7px; }
   .toc nav button b { color: var(--packet-ink); font: 400 19px/1.2 Georgia, serif; }
-  .toc nav button small { color: var(--packet-soft); font: 800 9px var(--qx-font); letter-spacing: .1em; }
+  .toc nav button small { color: var(--packet-soft); font: 800 11px var(--qx-font); letter-spacing: .1em; }
   .toc nav button em { color: var(--packet-rule); }
   .progress-copy { margin: 22px 0 56px; display: flex; align-items: center; gap: 10px 22px; flex-wrap: wrap; }
   .progress-copy b { font-size: 11px; }.progress-copy span { color: var(--packet-soft); font-size: 11px; }
@@ -504,16 +504,16 @@
   .chapter-head { display: grid; grid-template-columns: 70px minmax(0, 1fr) auto; align-items: start; gap: 24px;
                   padding: 48px 0 28px; border-color: var(--packet-rule); }
   .packet-number { color: var(--packet-orange); font: 400 30px Georgia, serif; }
-  .chapter-head p { color: var(--packet-orange); font-size: 10px; }
+  .chapter-head p { color: var(--packet-orange); font-size: 11.5px; }
   .chapter-head h2 { max-width: 720px; color: var(--packet-ink); font-weight: 400; font-size: clamp(36px, 6vw, 58px); }
-  .chapter-head > .packet-state { padding: 0; border-radius: 0; background: transparent; color: var(--packet-green); font-size: 10px; }
+  .chapter-head > .packet-state { padding: 0; border-radius: 0; background: transparent; color: var(--packet-green); font-size: 11.5px; }
   .objective { margin-top: 28px; padding: 20px 24px; border-left-color: var(--packet-green); background: #d8dfd3; }
-  .objective b { color: var(--packet-green); font-size: 10px; }
+  .objective b { color: var(--packet-green); font-size: 11.5px; }
   .objective p { max-width: 720px; font-weight: 400; font-size: 20px; }
   .opening { color: var(--packet-ink); font-weight: 400; font-size: 20px; }
   .reading-section h3 { color: var(--packet-ink); font-weight: 400; font-size: 28px; }
   .reading-section p { color: var(--packet-soft); font-weight: 500; }
-  .section-label span { color: var(--packet-orange); font-size: 10px; }
+  .section-label span { color: var(--packet-orange); font-size: 11.5px; }
   .section-label b { font-weight: 400; }
   .example, .workbook, .check, .rehearsal, .mission-briefing { padding: 24px; border: 1px solid var(--packet-rule); border-radius: 0; background: #f0ebdf; }
   .mission-briefing { border-left: 6px solid var(--packet-orange); }

diff --git a/src/lib/components/game/MissionMasthead.svelte b/src/lib/components/game/MissionMasthead.svelte
@@ -39,16 +39,16 @@
             width:min(100%,1120px);margin-inline:auto;padding-inline:clamp(16px,5vw,56px);box-sizing:border-box}
   .hero{display:flex;align-items:end;justify-content:space-between;gap:32px;padding:44px 0 26px}
   .copy{min-width:0}
-  .copy p{margin:0 0 8px;color:#b85530;font:900 10px var(--qx-font);letter-spacing:.14em;text-transform:uppercase}
+  .copy p{margin:0 0 8px;color:#b85530;font:900 11.5px var(--qx-font);letter-spacing:.14em;text-transform:uppercase}
   h1{max-width:780px;margin:0;color:#20241f;font:400 clamp(40px,6.2vw,68px)/.98 Georgia,serif;letter-spacing:-.035em;text-wrap:balance}
-  .copy>span{display:block;margin-top:12px;color:#62695f;font:800 10.5px var(--qx-font);letter-spacing:.08em;text-transform:uppercase}
+  .copy>span{display:block;margin-top:12px;color:#62695f;font:800 11.5px var(--qx-font);letter-spacing:.08em;text-transform:uppercase}
   .room{flex:0 0 260px;display:grid;grid-template-columns:112px 1fr;min-height:88px;border:1px solid #9c998d;
         background:#f7f3e9;color:#20241f;text-decoration:none;overflow:hidden;box-shadow:5px 5px 0 rgba(32,36,31,.12)}
   .room img{width:100%;height:100%;min-height:88px;object-fit:cover;object-position:center;image-rendering:auto;background:#ebe5d8}
   .room>span{display:flex;flex-direction:column;justify-content:center;padding:11px 12px}
-  .room small{color:#b85530;font:900 8.5px var(--qx-font);letter-spacing:.13em}
+  .room small{color:#b85530;font:900 11px var(--qx-font);letter-spacing:.13em}
   .room b{margin-top:3px;font:400 17px Georgia,serif}
-  .room em{margin-top:8px;color:#315f48;font:800 9px var(--qx-font);font-style:normal;letter-spacing:.04em}
+  .room em{margin-top:8px;color:#315f48;font:800 11px var(--qx-font);font-style:normal;letter-spacing:.04em}
   .room:hover{border-color:#20241f}.room:focus-visible{outline:3px solid #315f48;outline-offset:3px}
   .progress{width:100%;height:5px;margin:0 0 28px;background:#c8c1b1;overflow:hidden}
   .progress span{display:block;height:100%;background:#315f48;transition:width .35s ease}

diff --git a/src/lib/components/Figure.svelte b/src/lib/components/Figure.svelte
@@ -187,12 +187,12 @@
   .mark { stroke-width: 1.5; stroke-dasharray: 4 3; }
   .mark.median { stroke: #5f7355; }
   .mark.mean { stroke: #a85a34; }
-  .mark-label { font: 800 10px var(--qx-font); letter-spacing: .04em; }
+  .mark-label { font: 800 11.5px var(--qx-font); letter-spacing: .04em; }
   .mark-label.median { fill: #4e6548; }
   .mark-label.mean { fill: #8c4c2e; }
 
-  .tick { fill: #8a7f6a; font: 600 10.5px var(--qx-font); }
-  .panel-label { fill: #8c4c2e; font: 900 9.5px var(--qx-font); letter-spacing: .12em; }
+  .tick { fill: #8a7f6a; font: 600 11.5px var(--qx-font); }
+  .panel-label { fill: #8c4c2e; font: 900 11px var(--qx-font); letter-spacing: .12em; }
   .row-label { fill: #241f16; font: 700 11.5px var(--qx-font); }
   .value { fill: #241f16; font: 800 11.5px var(--qx-font); font-variant-numeric: tabular-nums; }
 
@@ -201,15 +201,15 @@
   .row-chip { fill: #cbbfa6; }
   .row-chip.changed { fill: #a85a34; }
   .stage-count { fill: #241f16; font: 800 12.5px var(--qx-font); font-variant-numeric: tabular-nums; }
-  .stage-grain { fill: #625a49; font: 600 10.5px var(--qx-font); }
+  .stage-grain { fill: #625a49; font: 600 11.5px var(--qx-font); }
   .stage-grain.changed { fill: #8c4c2e; font-weight: 800; }
-  .stage-flag { fill: #8c4c2e; font: 900 9px var(--qx-font); letter-spacing: .1em; }
+  .stage-flag { fill: #8c4c2e; font: 900 11px var(--qx-font); letter-spacing: .1em; }
   .arrow { fill: #a99d88; font: 400 17px var(--qx-font); }
 
   .table-wrap { overflow-x: auto; }
   table.absence { width: 100%; border-collapse: collapse; }
   table.absence th { padding: 0 12px 9px 0; text-align: left; color: #8c4c2e;
-                     font: 900 9.5px var(--qx-font); letter-spacing: .12em; text-transform: uppercase; }
+                     font: 900 11px var(--qx-font); letter-spacing: .12em; text-transform: uppercase; }
   table.absence td { padding: 9px 12px 9px 0; vertical-align: top;
                      border-top: 1px solid #ece7dc; color: #625a49;
                      font: 400 13px/1.5 var(--qx-font); }

diff --git a/src/views/StoreMap.svelte b/src/views/StoreMap.svelte
@@ -222,7 +222,7 @@
   .tick{color:var(--dim);font:800 13px var(--qx-font)}
   .missions li.done .tick{color:var(--good)}
   .text b{display:block;font:400 16px Georgia,serif}
-  .text em{display:block;margin-top:3px;color:var(--ink2);font:400 12.8px/1.5 var(--qx-font);font-style:normal}
+  .text em{display:block;margin-top:3px;color:var(--ink2);font:400 12.11px/1.5 var(--qx-font);font-style:normal}
   .meta{color:var(--ink2);font:700 12px var(--qx-font);white-space:nowrap}
   .where{display:block;padding-left:33px;color:var(--dim);font:600 11.5px var(--qx-font)}
   .missions li.locked{opacity:.55}
@@ -253,7 +253,7 @@
   .wrap{width:min(100%,1120px);max-width:none;padding-inline:clamp(16px,5vw,56px);box-sizing:border-box}
   header{padding:48px 0 30px;align-items:end}
   h1{font-size:clamp(42px,7vw,70px);line-height:.98;letter-spacing:-.035em}
-  .eyebrow{color:var(--clay);font-size:10px}.lede{color:var(--ink2)}
+  .eyebrow{color:var(--clay);font-size:11.5px}.lede{color:var(--ink2)}
   .standing{padding:14px 16px;border-left:3px solid #315f48;background:#f7f3e9}
   .standing>span{color:var(--ink2)}.standing i{height:5px;border-radius:0;background:#c8c1b1}.standing em{background:#315f48}
   .rooms{width:max-content;max-width:100%;gap:1px;margin-bottom:22px;padding:0;background:#9c998d;border:1px solid #9c998d}

diff --git a/src/lib/components/ReaderExercise.svelte b/src/lib/components/ReaderExercise.svelte
@@ -142,9 +142,9 @@
 <style>
   .reader-exercise{margin-top:32px;padding:24px;border:1px solid #9c998d;background:#e8e1d3;color:#20241f}
   .exercise-head{display:flex;align-items:start;justify-content:space-between;gap:16px;padding-bottom:16px;border-bottom:2px solid #20241f}
-  .exercise-head span{color:#b85530;font:900 10px var(--qx-font);letter-spacing:.14em}
+  .exercise-head span{color:#b85530;font:900 11.5px var(--qx-font);letter-spacing:.14em}
   .exercise-head h3{margin:5px 0 0;font:400 25px/1.08 Georgia,serif}
-  .exercise-head>b{flex:none;padding:6px 8px;border:1px solid #20241f;font:900 9px var(--qx-font);letter-spacing:.08em}
+  .exercise-head>b{flex:none;padding:6px 8px;border:1px solid #20241f;font:900 11px var(--qx-font);letter-spacing:.08em}
   .exercise-head>b.done{background:#315f48;color:#fff}
   .instruction{margin:16px 0;color:#5f615a;font:650 13.5px/1.55 var(--qx-font)}
   .exercise-items{display:grid;gap:12px}.exercise-items article{padding:15px;border:1px solid #b8b0a0;background:#f7f3e9}

diff --git a/src/lib/components/LearningModeSwitch.svelte b/src/lib/components/LearningModeSwitch.svelte
@@ -41,7 +41,7 @@
     color: var(--mode-active-ink, #fff);
   }
   a:focus-visible { outline: 2px solid var(--mode-focus, #8c4c2e); outline-offset: 2px; }
-  span { font-size: 10px; letter-spacing: .08em; opacity: .72; }
+  span { font-size: 11.5px; letter-spacing: .08em; opacity: .72; }
   .compact a { min-height: 34px; padding: 6px 9px; font-size: 11px; }
 
   @media (max-width: 460px) {
